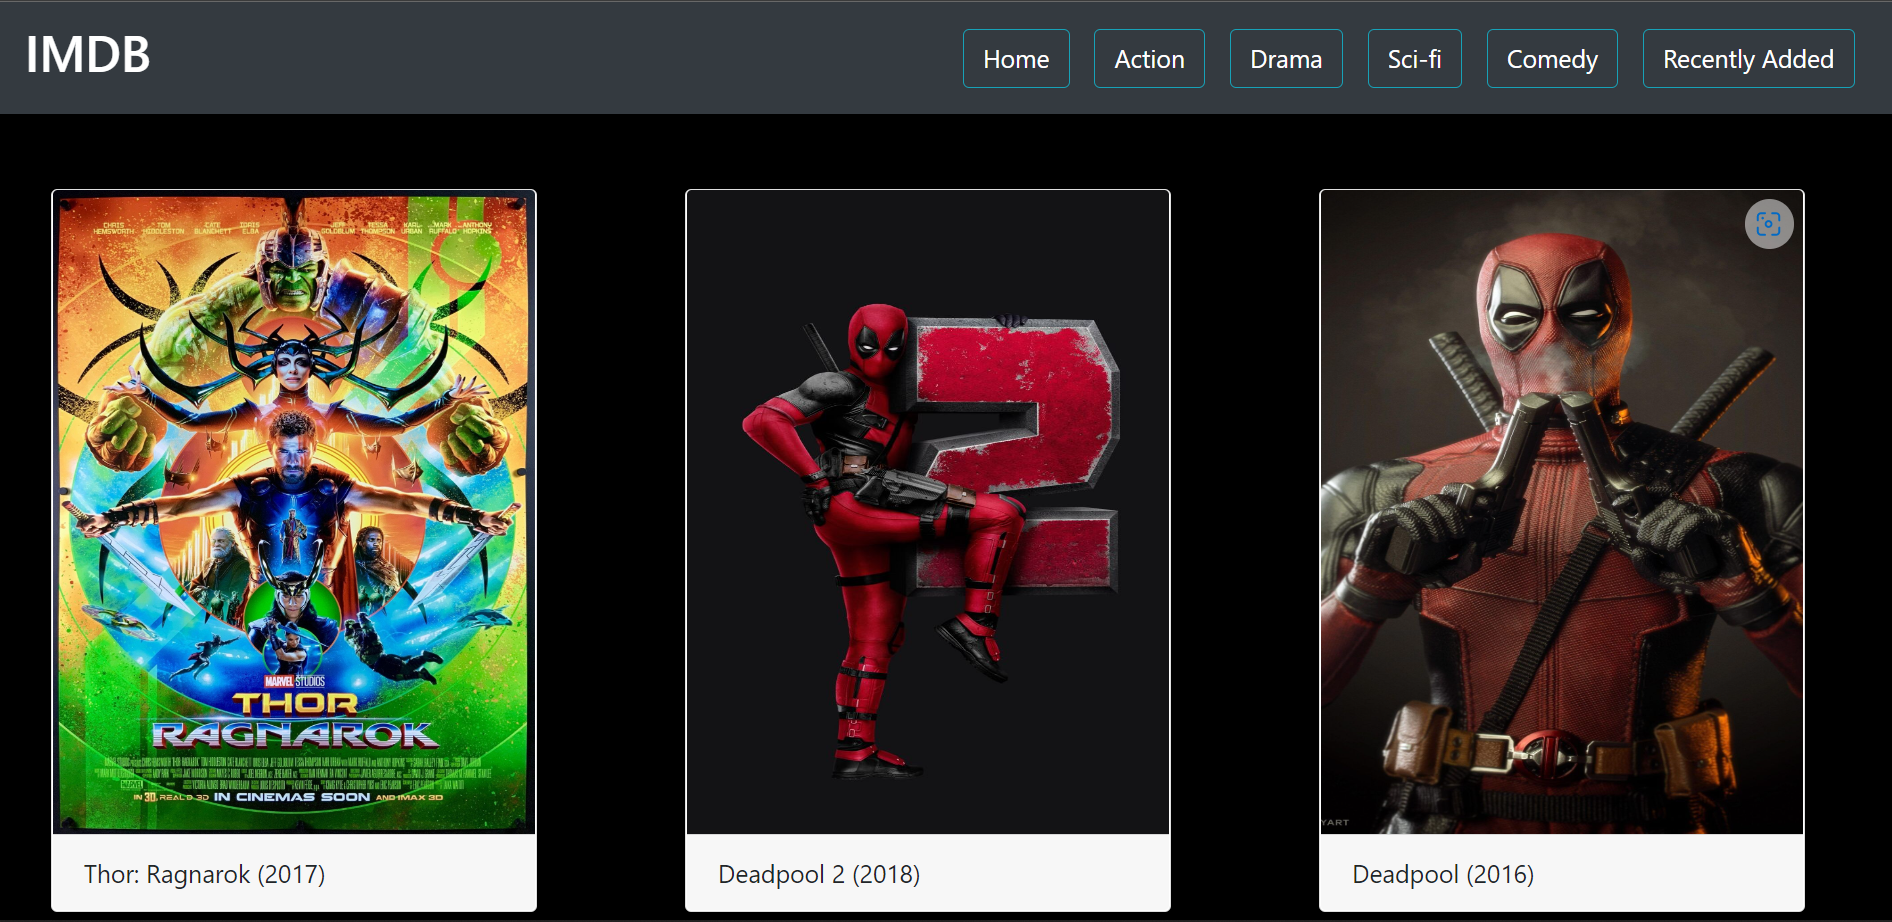
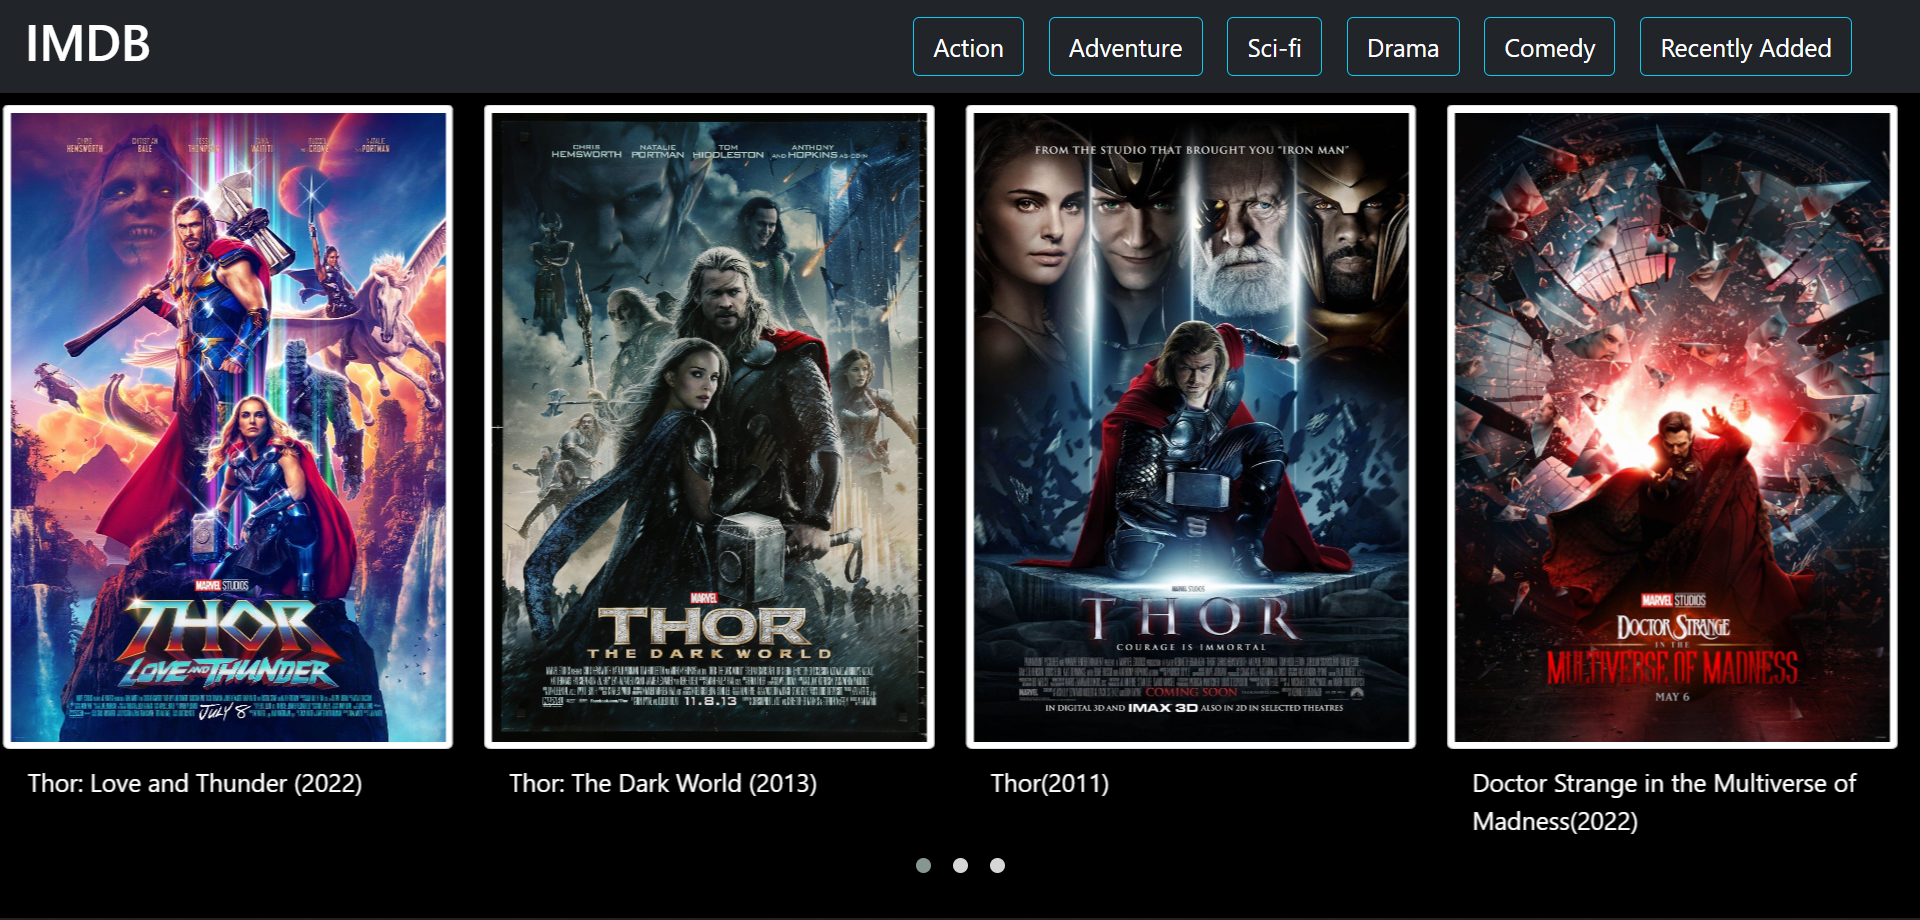
final

diff --git a/IMDB_CLONE/movie/templates/movie/movie_list.html b/IMDB_CLONE/movie/templates/movie/movie_list.html
@@ -10,6 +10,36 @@
     <link rel="stylesheet" href="https://cdn.jsdelivr.net/npm/bootstrap@4.5.3/dist/css/bootstrap.min.css" integrity="sha384-TX8t27EcRE3e/ihU7zmQxVncDAy5uIKz4rEkgIXeMed4M0jlfIDPvg6uqKI2xXr2" crossorigin="anonymous">
 
     <title>IMDB</title>
+    <link href="https://cdn.jsdelivr.net/npm/bootstrap@5.0.2/dist/css/bootstrap.min.css" rel="stylesheet" integrity="sha384-EVSTQN3/azprG1Anm3QDgpJLIm9Nao0Yz1ztcQTwFspd3yD65VohhpuuCOmLASjC" crossorigin="anonymous">
+    <link rel="stylesheet" href="https://cdnjs.cloudflare.com/ajax/libs/OwlCarousel2/2.3.4/assets/owl.carousel.min.css" integrity="sha512-tS3S5qG0BlhnQROyJXvNjeEM4UpMXHrQfTGmbQ1gKmelCxlSEBUaxhRBj/EFTzpbP4RVSrpEikbmdJobCvhE3g==" crossorigin="anonymous" />
+    <link rel="stylesheet" href="https://cdnjs.cloudflare.com/ajax/libs/OwlCarousel2/2.3.4/assets/owl.theme.default.min.css" integrity="sha512-sMXtMNL1zRzolHYKEujM2AqCLUR9F2C4/05cdbxjjLSRvMQIciEPCQZo++nk7go3BtSuK9kfa/s+a4f4i5pLkw==" crossorigin="anonymous"/>
+    <style>
+        *{
+            overflow: hidden;
+        }
+        .owl-carousel .owl-nav button.owl-next, .owl-carousel .owl-nav button.owl-prev, .owl-carousel button.owl-dot{
+            margin: 120px;
+            margin-top: 0%;
+            border-radius: 100px;
+            background-color: none;
+        }
+        .owl-carousel .owl-nav {
+           
+            margin-top: 0%;
+            color: white;
+            font-size: xx-large;
+            font-weight: 900;
+            font-family:Arial, Helvetica, sans-serif;
+        }
+
+        .owl-theme .owl-nav [class*=owl-]:hover {
+            background: none;
+            color: none;
+            text-decoration: none;
+        }
+
+
+    </style>
     
   </head>
   <body style="background-color: black;">
@@ -39,54 +69,45 @@
     </nav>
 
     {%if movies%}
-        <div class="mt-1" style="background-color: black;">
-            <div id="carouselExampleControls" class="carousel slide" data-ride="carousel">
-                
-                <div class="carousel-inner">
-                    {%for movie in movies|slice:":100"%}
-                        {%if forloop.first%}
-                            <div class="carousel-item active">
-                                <div class="text-white mt-1 ">
-                                    <h2 class="text-capitalize text-center text-secondary">{{movie.title}}</h2>
-                                </div>
-                                <center>
-                                    <a href="{%url 'MovieDetail' movie.id%}">
-                                        <img class="d-block img-fluid" src="{{movie.poster.url}}"  style="box-sizing: border-box; height: 35rem;">
-                                    </a>
-                                </center>
-                            </div>
-                        {%else%}
-                            <div class="carousel-item">
-                                <div class="text-white mt-1 ">
-                                    <h2 class="text-capitalize text-center text-secondary">{{movie.title}}</h2>
-                                </div>
-                                <a href="{%url 'MovieDetail' movie.id%}">
-                                    <center>
-                                        <img class="d-block img-fluid" src="{{movie.poster.url}}"  style="box-sizing: border-box; height: 35rem;">
-                                    </center>
-                                </a>
-                            </div>  
-                        {%endif%}
-                    {%endfor%}
+        <div class="owl-carousel owl-theme mt-1">
+            {%for movie in movies%}
+                <div class="item">
+                    <center>
+                        <h2 class="text-white"><b>{{movie.title}}</b></h2>
+                        <a href="{%url 'MovieDetail' movie.id%}">
+                            <img class="card-img-top" src="{{movie.poster.url}}" alt="Card image cap" style="height:72vh; width: 75%;">
+                        </a>
+                    </center>
                 </div>
-
-
-                <!-- CONTROL -->
-                <a class="carousel-control-prev" href="#carouselExampleControls" role="button" data-slide="prev">
-                <span class="carousel-control-prev-icon" aria-hidden="true"></span>
-                <span class="sr-only">Previous</span>
-                </a>
-                <a class="carousel-control-next" href="#carouselExampleControls" role="button" data-slide="next">
-                <span class="carousel-control-next-icon" aria-hidden="true"></span>
-                <span class="sr-only">Next</span>
-                </a>
-            </div>
+            {%endfor%}
         </div>
-    
     {%else%}
         <h1 class="text-info text-center">Sorry, movie not found!!</h1>
     {%endif%}
+    <script src="https://cdnjs.cloudflare.com/ajax/libs/jquery/3.6.0/jquery.min.js" integrity="sha512-894YE6QWD5I59HgZOGReFYm4dnWc1Qt5NtvYSaNcOP+u1T9qYdvdihz0PPSiiqn/+/3e7Jo4EaG7TubfWGUrMQ==" crossorigin="anonymous"></script>
+    <!-- Owl Carousel -->
+    <script src="https://cdnjs.cloudflare.com/ajax/libs/OwlCarousel2/2.3.4/owl.carousel.min.js"></script>
+    <!-- custom JS code after importing jquery and owl -->
+    <script type="text/javascript">
+        $(document).ready(function() {
+            $(".owl-carousel").owlCarousel();
+        });
+
+        $('.owl-carousel').owlCarousel({
+            loop: true,
+            nav: true,
+            dots:false,
+            autoplaySpeed:3000,
+            autoplay:true,
+            responsive: {
+                0: {
+                    items: 1
+                },
+                
+            }
+        })
+    </script>
     <script src="https://code.jquery.com/jquery-3.5.1.slim.min.js" integrity="sha384-DfXdz2htPH0lsSSs5nCTpuj/zy4C+OGpamoFVy38MVBnE+IbbVYUew+OrCXaRkfj" crossorigin="anonymous"></script>
     <script src="https://cdn.jsdelivr.net/npm/bootstrap@4.5.3/dist/js/bootstrap.bundle.min.js" integrity="sha384-ho+j7jyWK8fNQe+A12Hb8AhRq26LrZ/JpcUGGOn+Y7RsweNrtN/tE3MoK7ZeZDyx" crossorigin="anonymous"></script>
-  </body>
+</body>
 </html>

diff --git a/IMDB_CLONE/movie/templates/movie/movie_genre.html b/IMDB_CLONE/movie/templates/movie/movie_genre.html
@@ -10,7 +10,16 @@
     <link rel="stylesheet" href="https://cdn.jsdelivr.net/npm/bootstrap@4.5.3/dist/css/bootstrap.min.css" integrity="sha384-TX8t27EcRE3e/ihU7zmQxVncDAy5uIKz4rEkgIXeMed4M0jlfIDPvg6uqKI2xXr2" crossorigin="anonymous">
 
     <title>IMDB</title>
-    
+
+    <link href="https://cdn.jsdelivr.net/npm/bootstrap@5.0.2/dist/css/bootstrap.min.css" rel="stylesheet" integrity="sha384-EVSTQN3/azprG1Anm3QDgpJLIm9Nao0Yz1ztcQTwFspd3yD65VohhpuuCOmLASjC" crossorigin="anonymous">
+    <link rel="stylesheet" href="https://cdnjs.cloudflare.com/ajax/libs/OwlCarousel2/2.3.4/assets/owl.carousel.min.css" integrity="sha512-tS3S5qG0BlhnQROyJXvNjeEM4UpMXHrQfTGmbQ1gKmelCxlSEBUaxhRBj/EFTzpbP4RVSrpEikbmdJobCvhE3g==" crossorigin="anonymous" />
+    <link rel="stylesheet" href="https://cdnjs.cloudflare.com/ajax/libs/OwlCarousel2/2.3.4/assets/owl.theme.default.min.css" integrity="sha512-sMXtMNL1zRzolHYKEujM2AqCLUR9F2C4/05cdbxjjLSRvMQIciEPCQZo++nk7go3BtSuK9kfa/s+a4f4i5pLkw==" crossorigin="anonymous"/>
+    <style>
+        .owl-carousel .owl-nav {
+            display:none
+        }
+
+    </style>
   </head>
   <body style="background-color: black; overflow-x:hidden;">
     <!-- NavBar -->
@@ -37,15 +46,15 @@
     </nav>
 
 
-        <div class="row">
+        <div class="owl-carousel owl-theme mt-2">
             {%for movie in movies%}
-                <div class="card w-25 m-5 mt-1">
+                <div class="item">
                     
                     <a href="{%url 'MovieDetail' movie.id%}">
-                        <img class="card-img-top img-fluid" src="{{movie.image.url}}" alt="Card image cap" style="height:70vh;">
+                        <img class="card-img-top img-thumbnail" src="{{movie.image.url}}" alt="Card image cap" style="height:70vh;">
                     </a>
                     
-                    <div class="card-footer">
+                    <div class="card-footer text-white">
                         {{movie.title}}
                     </div>
 
@@ -54,65 +63,32 @@
         </div>
 
 
-
-        <!-- Drama -->
-        <!-- <div class="text-white mt-lg-5 ">
-            <h2>Drama</h2>
-        </div>
-
-        <div class="row">
-            {%for movie in movies%}
-                <div class="card m-1 w-25">
-                    <a href="">
-                        <img class="card-img-top" src="{{movie.image.url}}" alt="Card image cap" style="height:80vh;">
-                    </a>
-                    <div class="card-footer">
-                        {{movie.title}}
-                    </div>
-                </div>
-            {%endfor%}
-        </div>
-
-
-        Sci-fi
-        <div class="text-white mt-lg-5 ">
-            <h2>Sci-fi</h2>
-        </div>
-
-        <div class="row">
-            {%for movie in movies%}
-                <div class="card m-1 w-25">
-                    <a href="">
-                        <img class="card-img-top" src="{{movie.image.url}}" alt="Card image cap" style="height:80vh;">
-                    </a>
-                    <div class="card-footer">
-                        {{movie.title}}
-                    </div>
-                </div>
-            {%endfor%}
-        </div>
-
-
-        Comedy
-        <div class="text-white mt-lg-5 ">
-            <h2>Comedy</h2>
-        </div>
-
-        <div class="row">
-            {%for movie in movies%}
-                <div class="card m-1 w-25">
-                    <a href="">
-                        <img class="card-img-top" src="{{movie.image.url}}" alt="Card image cap" style="height:80vh;">
-                    </a>
-                    <div class="card-footer">
-                        {{movie.title}}
-                    </div>
-                </div>
-            {%endfor%}
-        </div>
- -->
-
-
+        <script src="https://cdnjs.cloudflare.com/ajax/libs/jquery/3.6.0/jquery.min.js" integrity="sha512-894YE6QWD5I59HgZOGReFYm4dnWc1Qt5NtvYSaNcOP+u1T9qYdvdihz0PPSiiqn/+/3e7Jo4EaG7TubfWGUrMQ==" crossorigin="anonymous"></script>
+        <!-- Owl Carousel -->
+        <script src="https://cdnjs.cloudflare.com/ajax/libs/OwlCarousel2/2.3.4/owl.carousel.min.js"></script>
+        <!-- custom JS code after importing jquery and owl -->
+        <script type="text/javascript">
+            $(document).ready(function() {
+                $(".owl-carousel").owlCarousel();
+            });
+    
+            $('.owl-carousel').owlCarousel({
+                loop: true,
+                margin: 20,
+                nav: true,
+                autoplaySpeed:4000,
+                autoplay:true,
+                responsive: {
+                    0: {
+                        items: 1
+                    },
+                    600: {
+                        items: 4
+                    },
+                    
+                }
+            })
+        </script>
     <script src="https://code.jquery.com/jquery-3.5.1.slim.min.js" integrity="sha384-DfXdz2htPH0lsSSs5nCTpuj/zy4C+OGpamoFVy38MVBnE+IbbVYUew+OrCXaRkfj" crossorigin="anonymous"></script>
     <script src="https://cdn.jsdelivr.net/npm/bootstrap@4.5.3/dist/js/bootstrap.bundle.min.js" integrity="sha384-ho+j7jyWK8fNQe+A12Hb8AhRq26LrZ/JpcUGGOn+Y7RsweNrtN/tE3MoK7ZeZDyx" crossorigin="anonymous"></script>
   </body>

diff --git a/IMDB_CLONE/movie/templates/movie/movie_detail.html b/IMDB_CLONE/movie/templates/movie/movie_detail.html
@@ -38,7 +38,7 @@
 
     <div class="mt-2 mr-2 row">
         <div class="col">
-            <iframe class="embed-responsive-item" width="800" height="500" src="{{movie.trailer_link}}"></iframe>
+            <iframe class="embed-responsive-item border-light" width="800" height="500" src="{{movie.trailer_link}}" ></iframe>
         </div>
         <div class="col text-white">
             <h2 class="text-white"><b>{{movie.title}}</b></h2>
